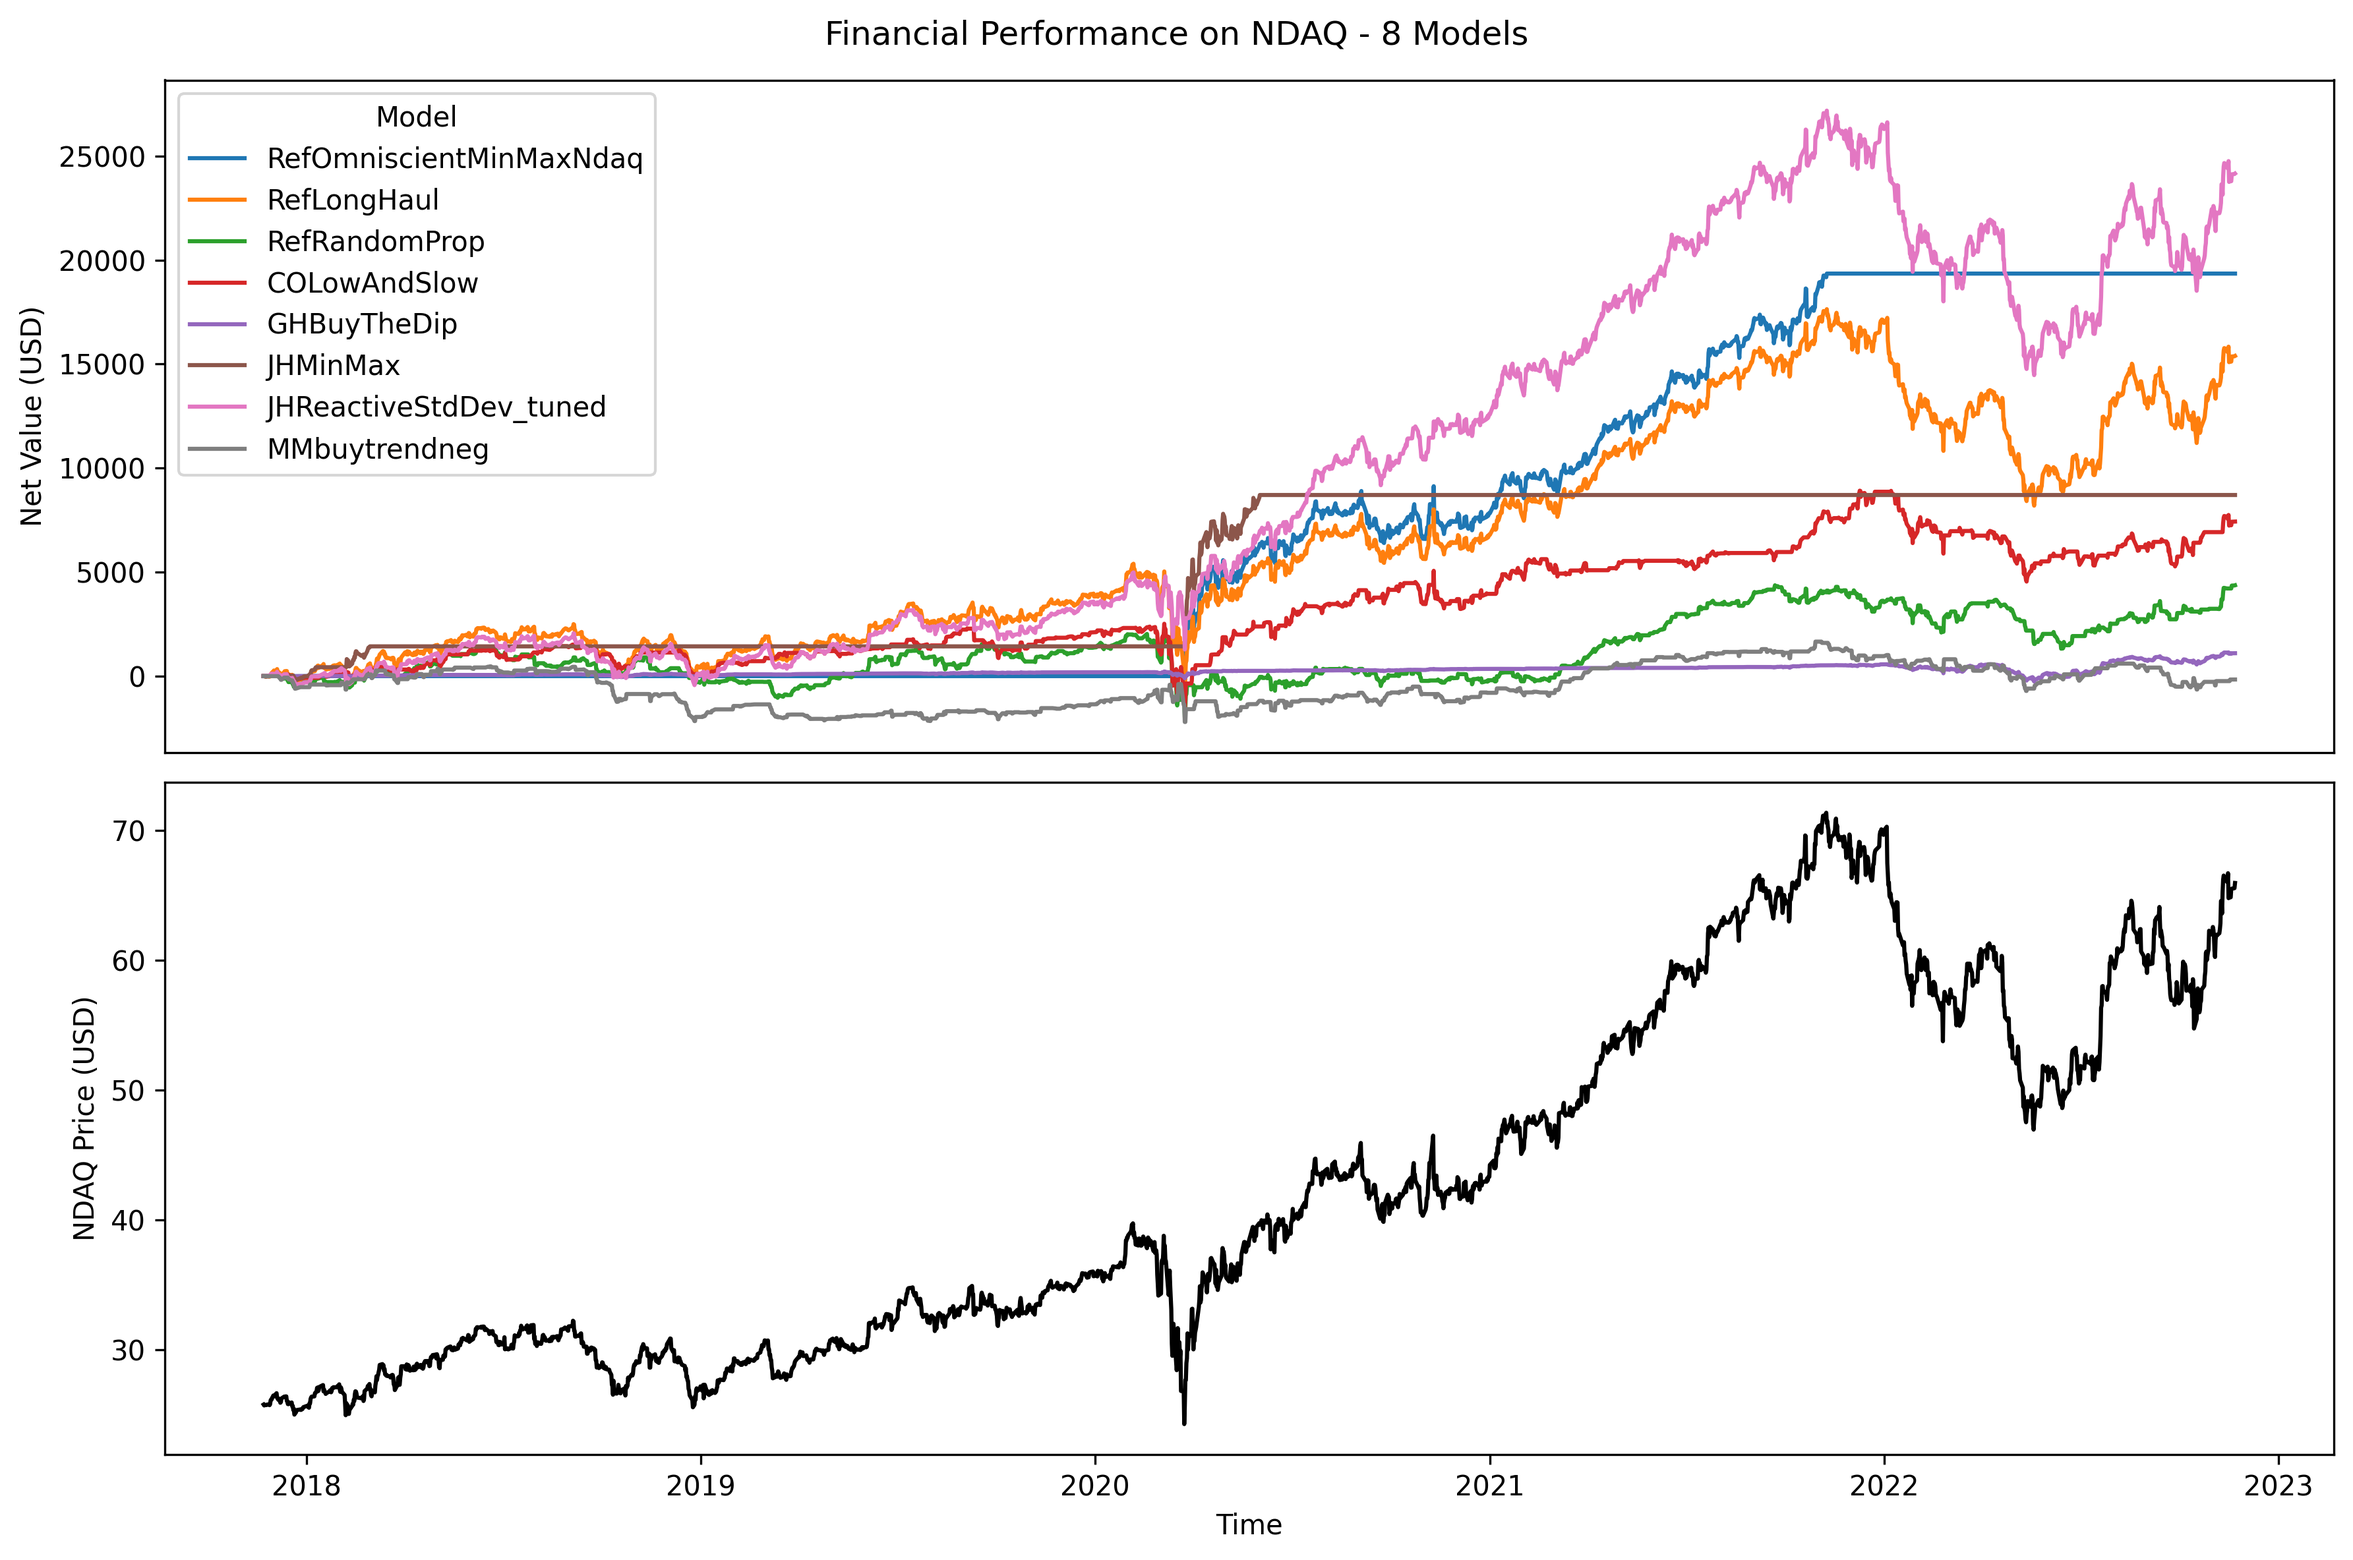
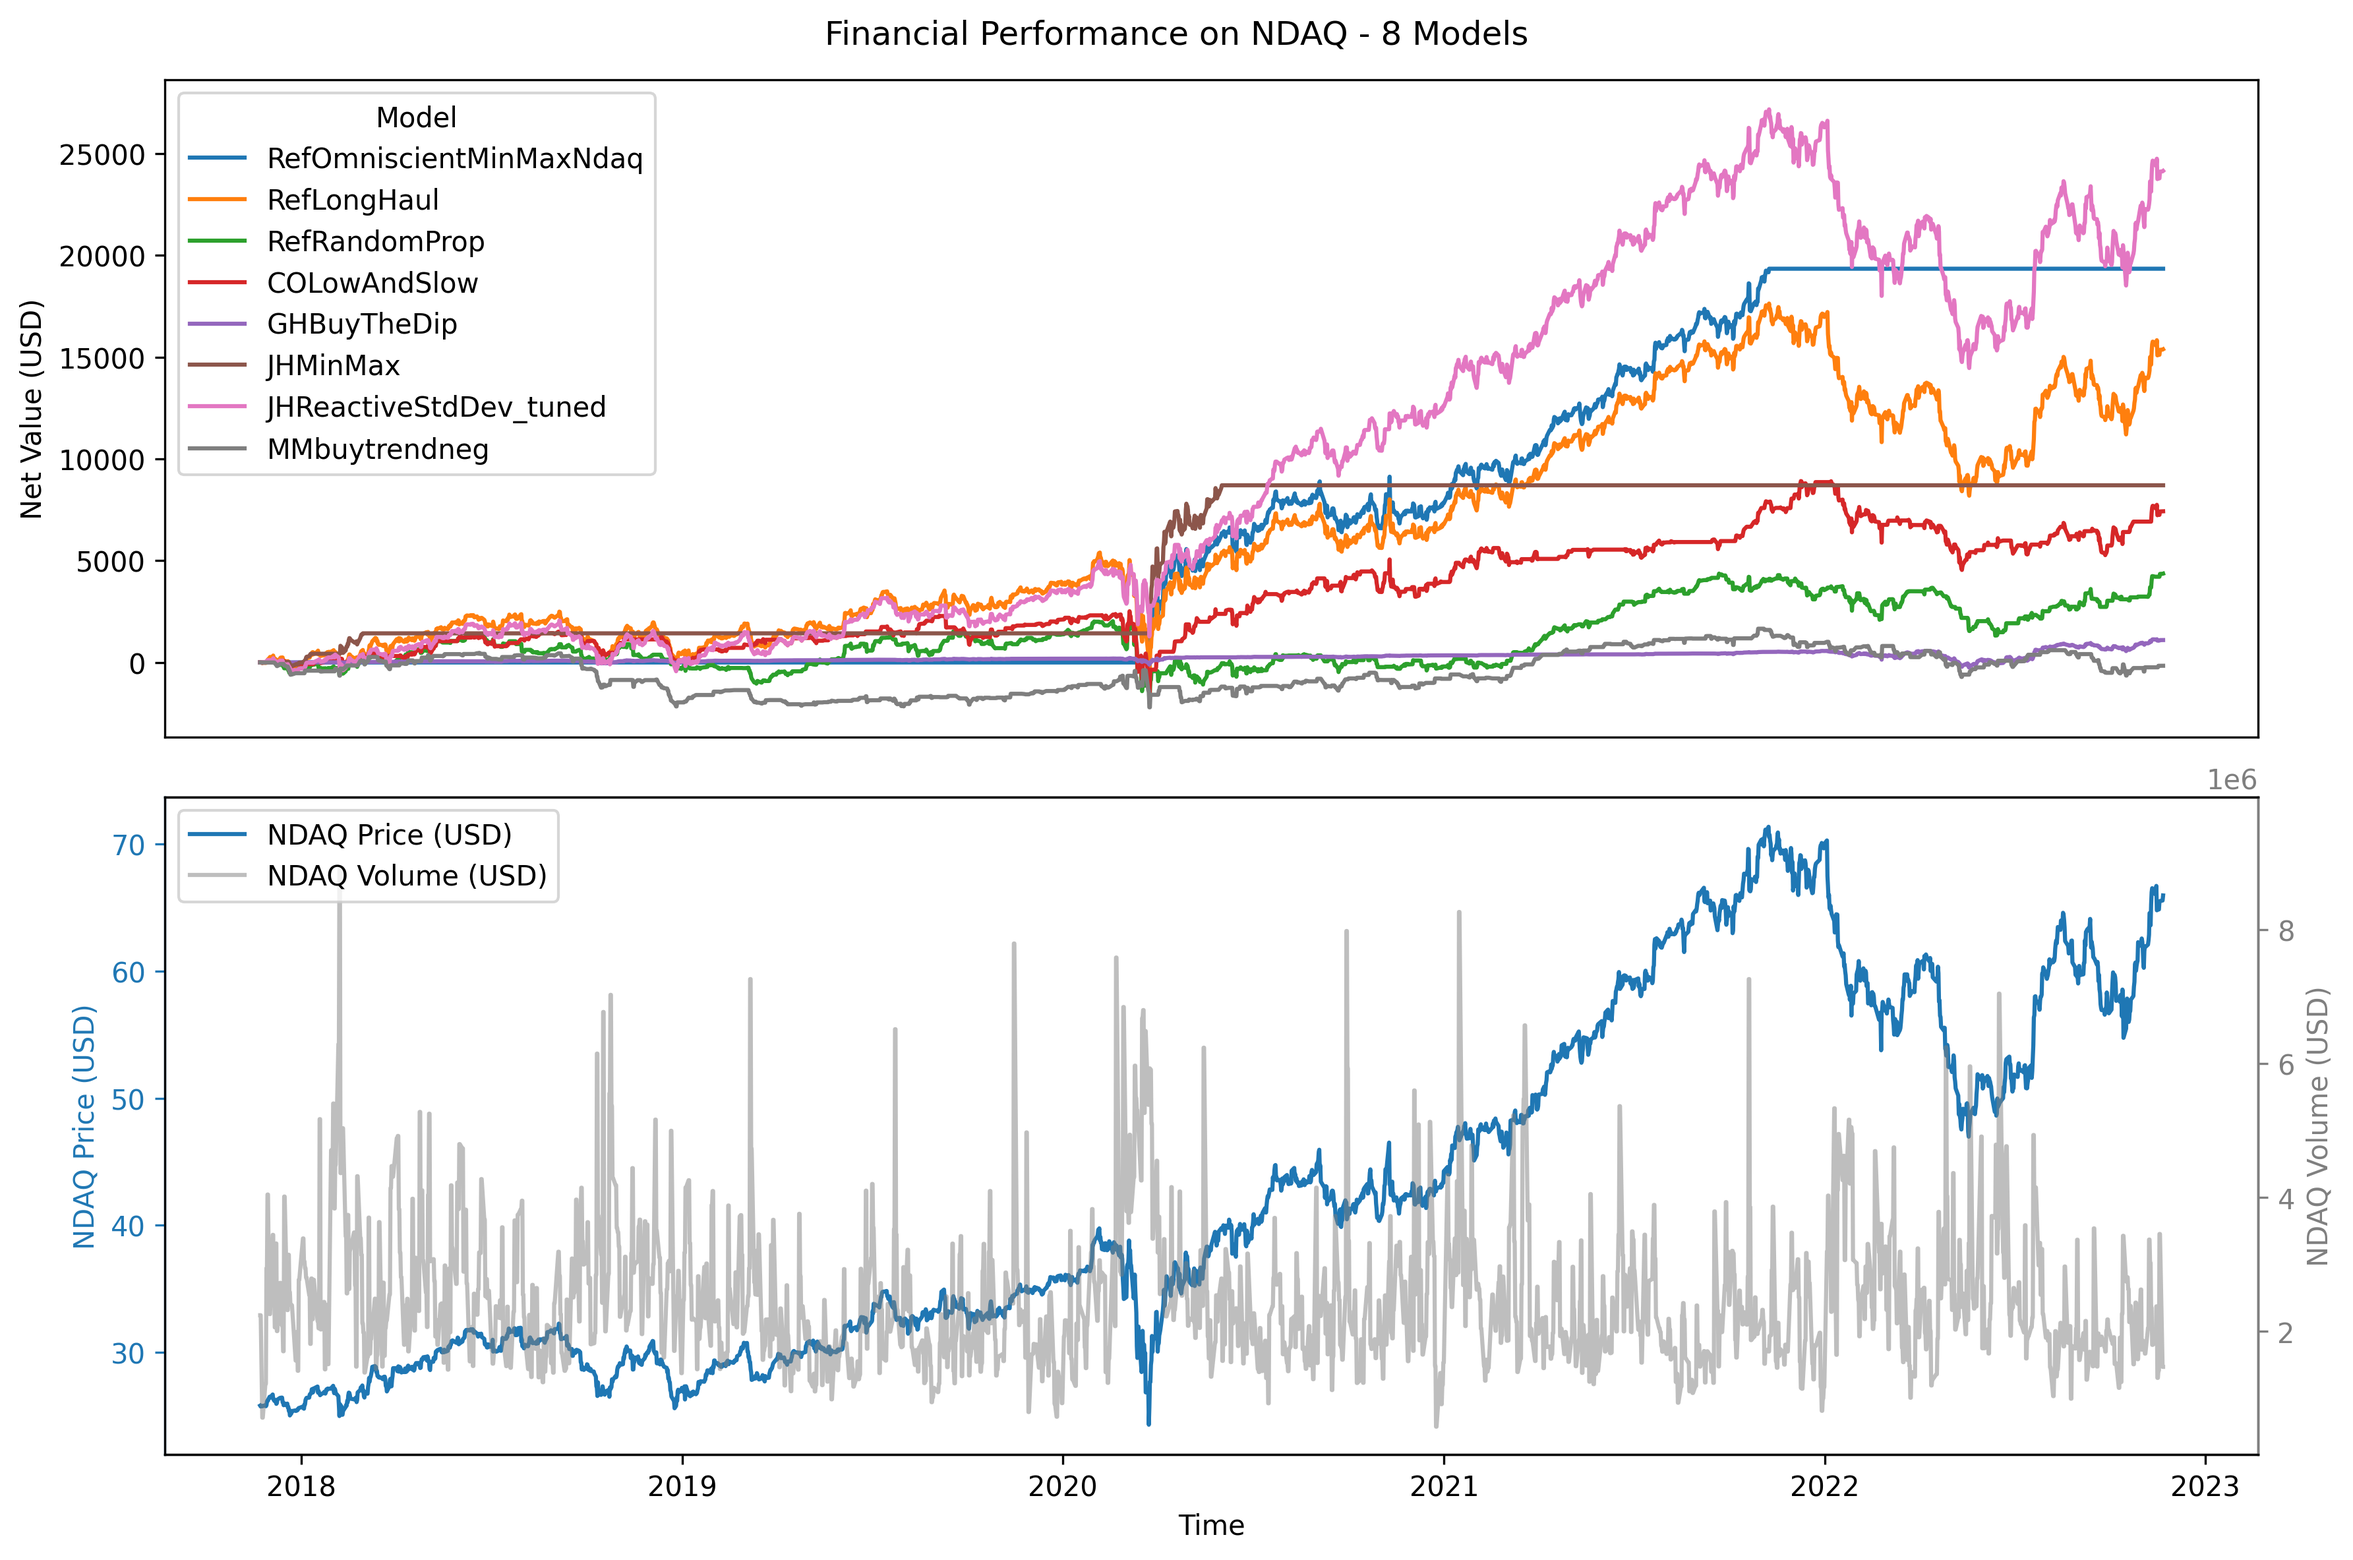
updated the NDAQ trend to include volume

diff --git a/src/evaluate_models.py b/src/evaluate_models.py
@@ -436,6 +436,9 @@ def plot_comp(
         color=volume_color,
         labelcolor=volume_color,
     )
+    
+    # NOTE: This is a hack to prevent the legend occluding the Volume trend
+    #       for SPY. We add 7% to the upper bound of the y-axis.
     (ylim_0, ylim_1) = ax3.get_ylim()
     ax3.set_ylim(ylim_0, ylim_0 + (ylim_1 - ylim_0) * 1.07)
     
